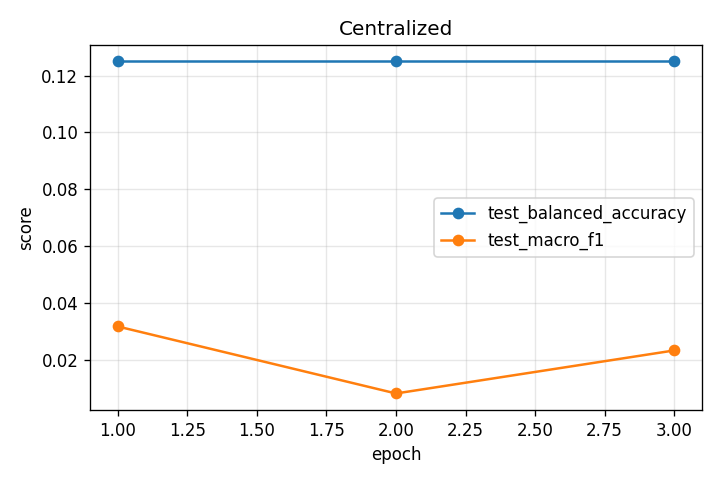
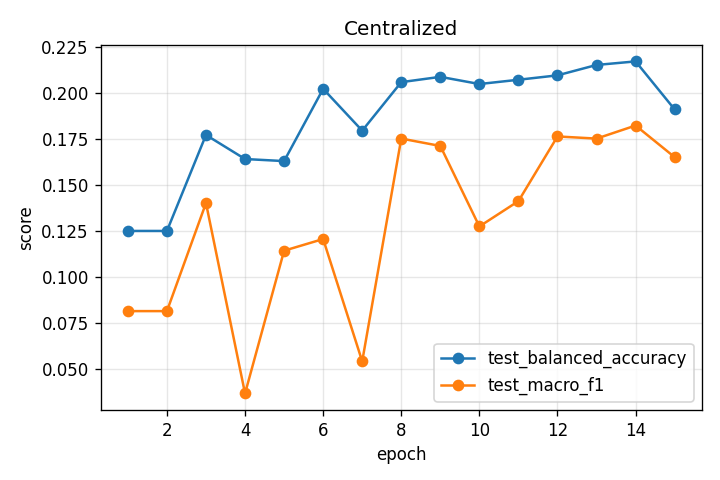
SCAFFOLD stable: plain SGD (momentum 0) + grad-norm safety clip

diff --git a/src/fl_med/engine/train_eval.py b/src/fl_med/engine/train_eval.py
@@ -3,6 +3,11 @@
 The single training loop honours the strategy hooks (FedProx's ``extra_loss`` and
 SCAFFOLD's ``after_backward`` gradient correction), so all methods share exactly
 the same optimization code -- part of the fair-comparison protocol.
+
+A generous gradient-norm clip (``GRAD_CLIP_NORM``) is applied after the strategy's
+gradient edit as a numerical safety net: it never triggers for normal training
+(grad norms are O(1-10)) but prevents a runaway (e.g. mis-tuned SCAFFOLD control
+variates) from reaching nan and corrupting a run.
 """
 from __future__ import annotations
 
@@ -11,6 +16,8 @@ from typing import Any, Dict, Optional
 import numpy as np
 
 from ..metrics import compute_metrics
+
+GRAD_CLIP_NORM = 1e3
 
 
 def train_one_epoch(
@@ -50,6 +57,7 @@ def train_one_epoch(
         loss.backward()
         if strategy is not None:
             strategy.after_backward(model, client_state)
+        torch.nn.utils.clip_grad_norm_(model.parameters(), max_norm=GRAD_CLIP_NORM)
         optimizer.step()
 
         running_loss += float(loss.item()) * images.size(0)
